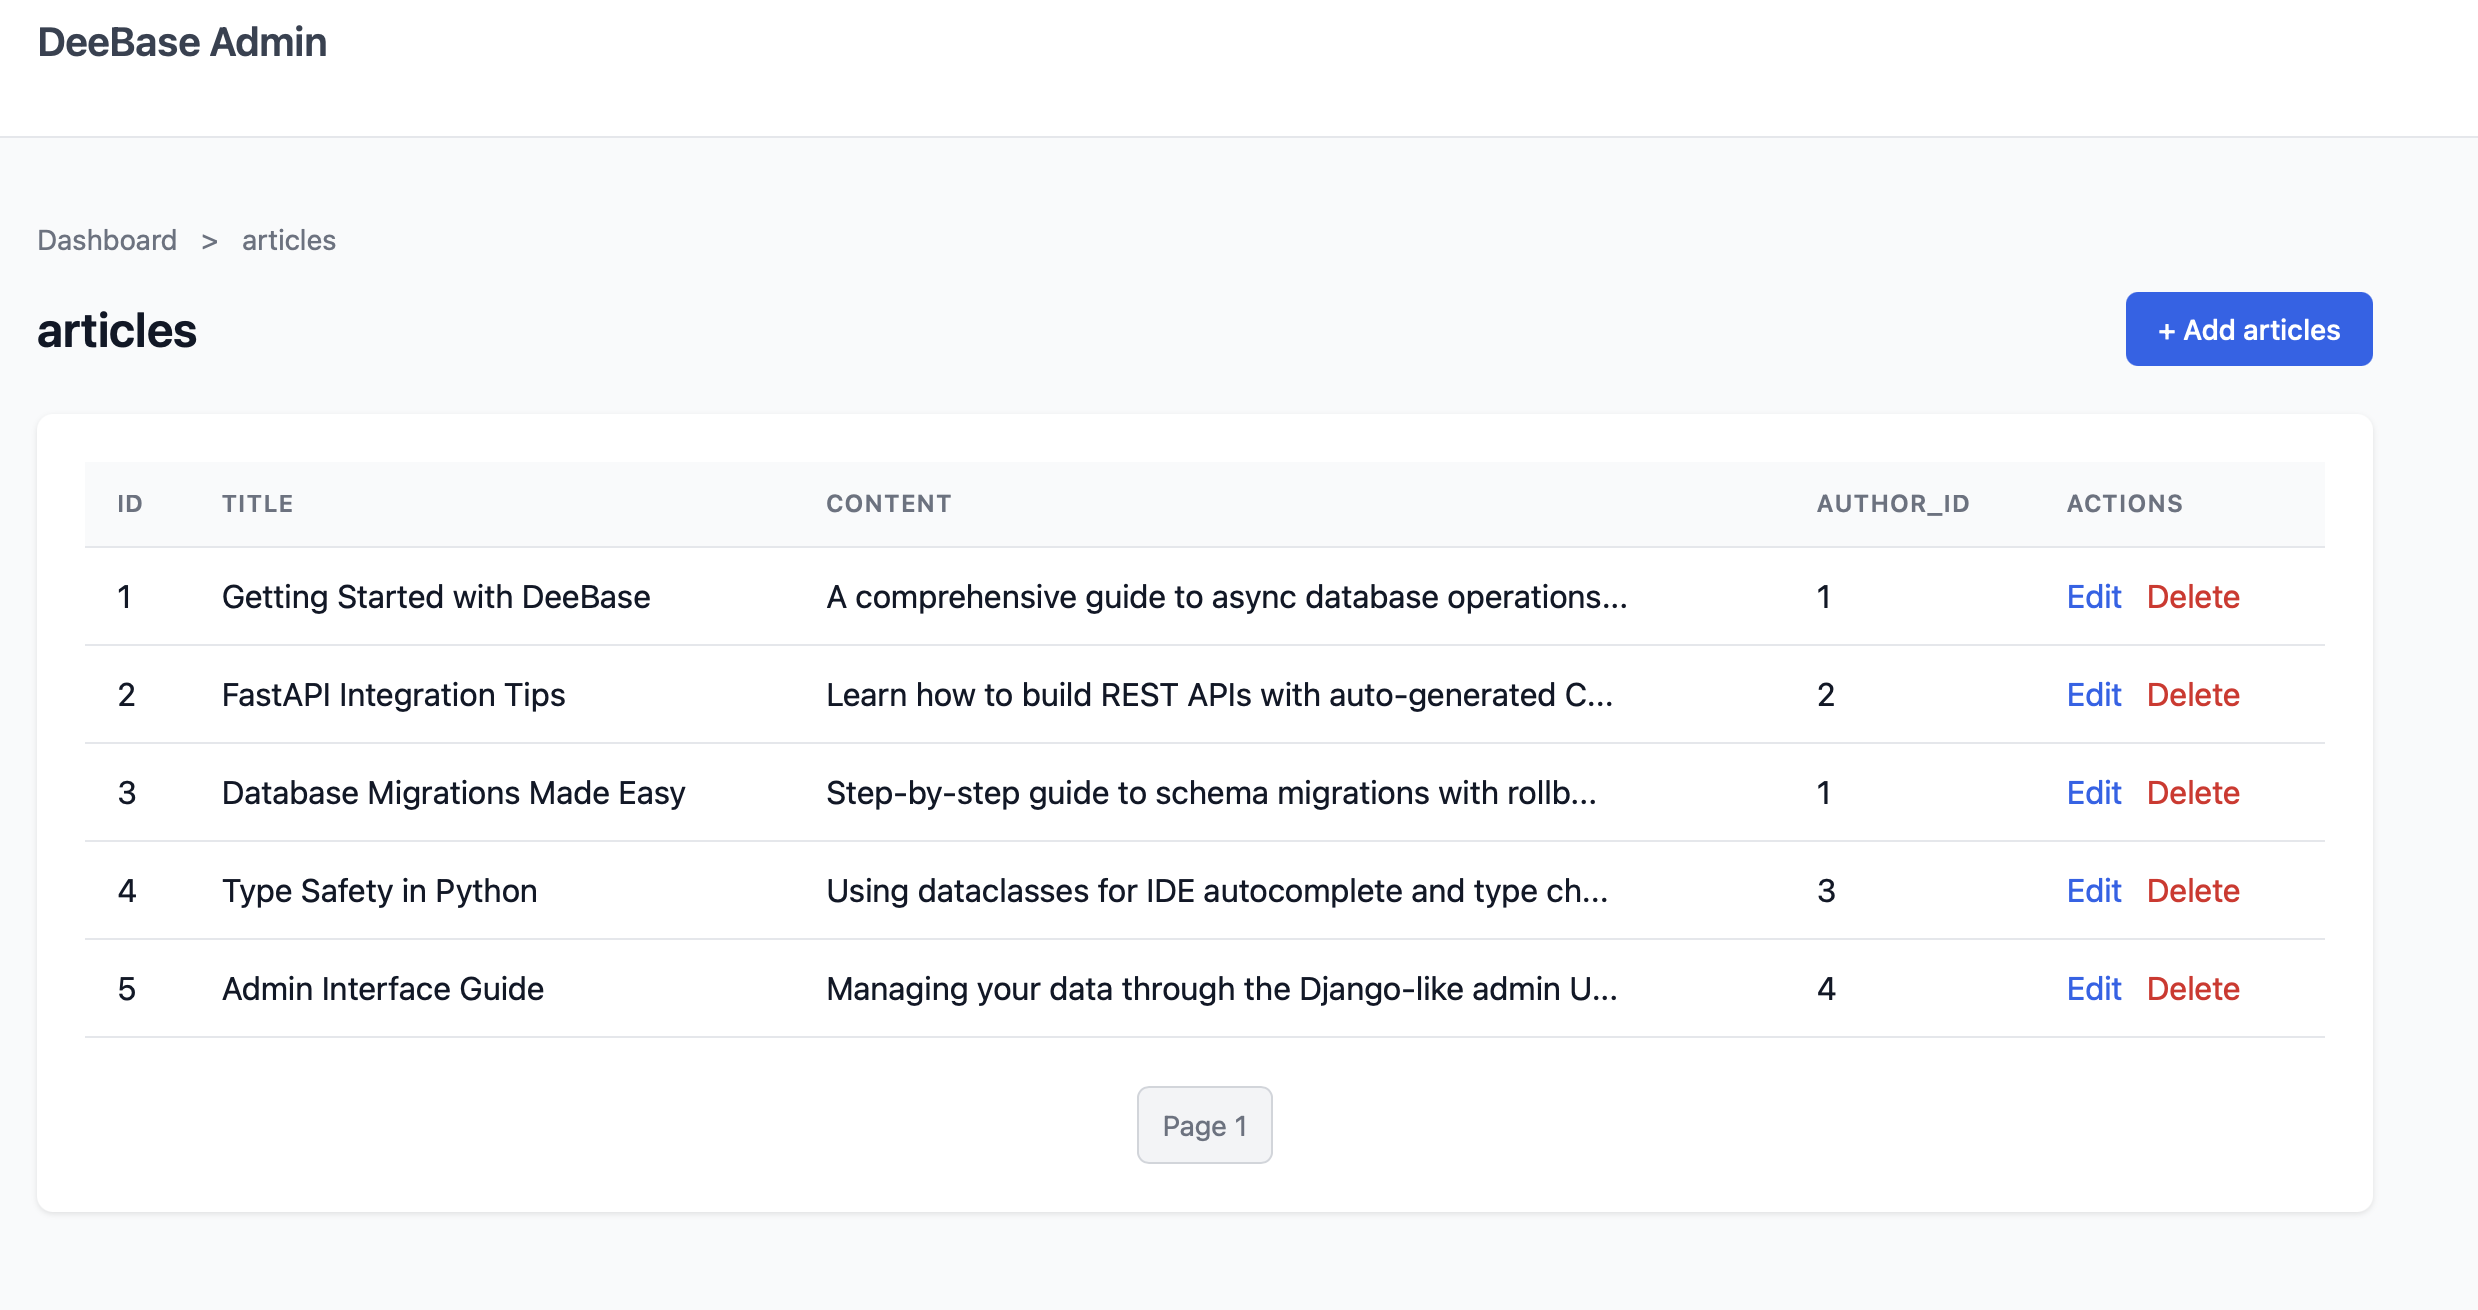
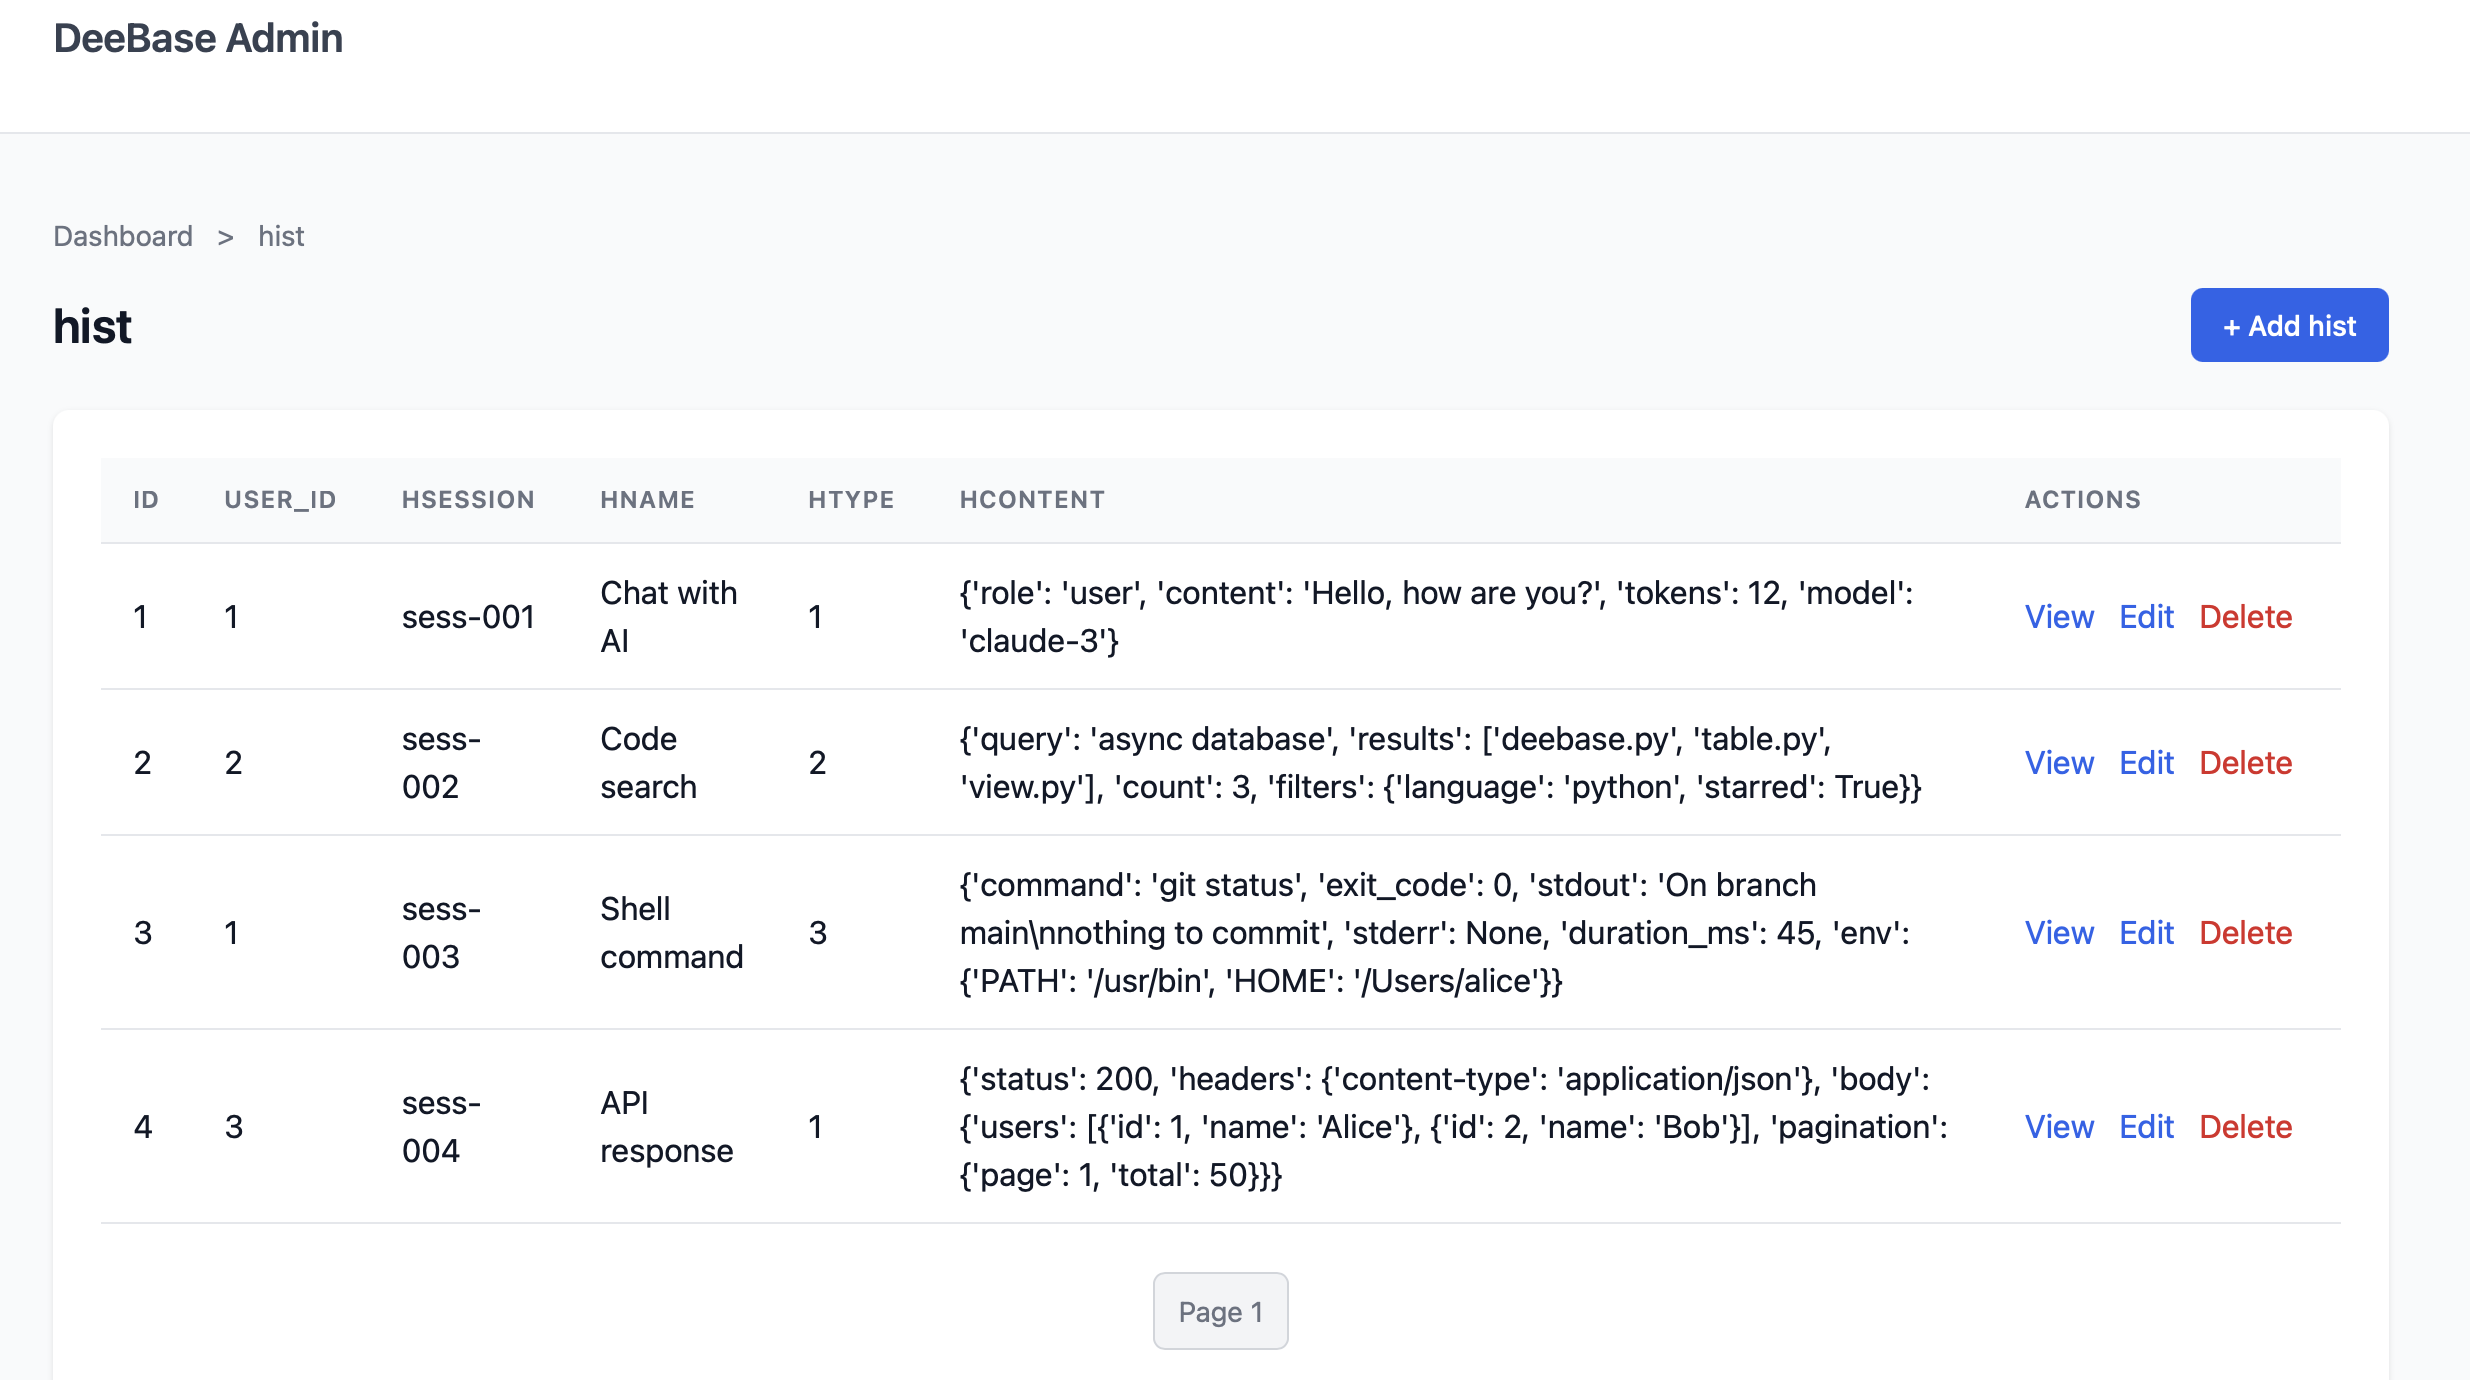
Phase 17: Add screenshots and documentation updates
- Add 4 new screenshots: detail view, custom display, JSON rendering, updated list view
- Update fastapi_guide.md with Phase 17 screenshots
- Update cli_reference.md with admin features and screenshot
- Update implemented.md with full Phase 17 section
- Update README.md with dashboard + list view screenshots, test count to 539
- Fix Jekyll raw tags in implementation_plan.md for view.html template
- Mark Phase 17 as ongoing (core features complete, open for future enhancements)

diff --git a/docs/implemented.md b/docs/implemented.md
@@ -4029,9 +4029,12 @@ deebase api serve --admin
 #   Dashboard:     http://127.0.0.1:8000/admin/
 #   Table list:    http://127.0.0.1:8000/admin/users/
 #   Create form:   http://127.0.0.1:8000/admin/users/new
-#   Edit form:     http://127.0.0.1:8000/admin/users/1
+#   Detail view:   http://127.0.0.1:8000/admin/users/1
+#   Edit form:     http://127.0.0.1:8000/admin/users/1/edit
 #   Delete:        http://127.0.0.1:8000/admin/users/1/delete
 ```
+
+![Admin List View](admin-list-view.png)
 
 **Admin Features:**
 - Dashboard listing all tables
@@ -4095,6 +4098,70 @@ app.include_router(create_admin_router(db))
 
 ---
 
+## Phase 17: Admin UI Enhancements 🔄 ONGOING
+
+Phase 17 enhances the admin interface with read-only detail views, type-based field rendering, and custom display functions.
+
+### Read-Only Detail View
+
+The admin now has a dedicated read-only detail view at `/{table}/{pk}`:
+
+```bash
+# URL structure
+/admin/users/1        # Read-only detail view
+/admin/users/1/edit   # Edit form (moved from /admin/users/1)
+/admin/users/1/delete # Delete confirmation
+```
+
+![Admin Detail View](admin-detail-view.png)
+
+### Type-Based Field Renderers
+
+Fields are automatically rendered based on their database type:
+
+| Column Type | Rendering |
+|-------------|-----------|
+| JSON | Formatted `<pre>` block |
+| TEXT | Preserves newlines with `<br>` |
+| BOOLEAN | Styled "Yes" / "No" |
+| INTEGER | Monospace font |
+| DATETIME | Formatted timestamp |
+| NULL | Em dash (—) marker |
+
+![Admin JSON Rendering](admin-json-rendering.png)
+
+### Custom Display Functions
+
+Create custom renderers in `displays/{table_name}.py`:
+
+```python
+# displays/users.py
+import html
+
+def render_username(value, record):
+    """Render username in red."""
+    if value is None:
+        return '<span class="null">—</span>'
+    escaped = html.escape(str(value))
+    return f'<span style="color: #dc2626; font-weight: 600;">{escaped}</span>'
+
+DISPLAYS = {"username": render_username}
+```
+
+![Admin Custom Display](admin-custom-display.png)
+
+**Phase 17 Deliverables:**
+- ✅ Read-only detail view at `/{table}/{pk}`
+- ✅ Edit form moved to `/{table}/{pk}/edit`
+- ✅ Clickable rows in list view
+- ✅ Type-based field renderers (`deebase.admin.renderers`)
+- ✅ Custom display functions via `displays/` directory
+- ✅ `deebase init` creates `displays/` scaffold
+- ✅ 31 new admin tests (539 total passing)
+- ✅ Documentation with screenshots
+
+---
+
 ## Dependencies
 
 - Python 3.14+
@@ -4117,9 +4184,9 @@ The codebase is designed to be database-agnostic through SQLAlchemy's dialect sy
 
 ## Summary
 
-**All 16 Phases Complete! 🎉**
+**All 16 Phases Complete + Phase 17 Ongoing! 🎉**
 
-DeeBase is now feature-complete with:
+DeeBase is production-ready with:
 - ✅ **Async/await support** - Modern Python async for FastAPI and other frameworks
 - ✅ **Ergonomic API** - Simple, intuitive operations inspired by fastlite
 - ✅ **Type safety** - Optional dataclass support for IDE autocomplete
@@ -4139,9 +4206,10 @@ DeeBase is now feature-complete with:
 - ✅ **Validation layer** - Shared validators used by CLI, admin, and API
 - ✅ **Admin interface** - Django-like admin UI at `/admin/`
 - ✅ **CLI data commands** - CRUD from the terminal with `deebase data`
+- ✅ **Admin enhancements** - Read-only detail views, type-based renderers, custom displays (Phase 17)
 - ✅ **Comprehensive error handling** - 6 specific exception types with rich context
 - ✅ **Code generation** - Export database schemas as Python dataclasses
 - ✅ **Complete documentation** - API reference, migration guide, CLI reference, examples
-- ✅ **494 passing tests** - Comprehensive test coverage
+- ✅ **539 passing tests** - Comprehensive test coverage
 
 **Ready for production use!**

diff --git a/CLAUDE.md b/CLAUDE.md
@@ -28,7 +28,7 @@ DeeBase follows fastlite's philosophy of providing a simple, interactive databas
 ## Project Status
 
 ✅ **All 16 Phases Complete** - Production-ready with full Data Management & Admin Interface
-🔄 **Phase 17 In Progress** - Admin UI Enhancements (core features done, screenshots pending)
+🔄 **Phase 17 Ongoing** - Admin UI Enhancements (core features and docs complete, open for future enhancements)
 
 ✅ **Phase 1 Complete** - Core Infrastructure with enhancements
 ✅ **Phase 2 Complete** - Table Creation & Schema
@@ -46,7 +46,7 @@ DeeBase follows fastlite's philosophy of providing a simple, interactive databas
 ✅ **Phase 14 Complete** - Migrations (simple runner, fastmigrate-style API)
 ✅ **Phase 15 Complete** - FastAPI Integration (CRUD routers, Pydantic models, FK validation)
 ✅ **Phase 16 Complete** - Data Management & Admin Interface (CLI data commands, Django-like admin UI)
-🔄 **Phase 17 In Progress** - Admin UI Enhancements (read-only detail view, clickable rows, custom field renderers)
+🔄 **Phase 17 Ongoing** - Admin UI Enhancements (read-only detail view, clickable rows, custom field renderers)
 
 **Completed Features:**
 - ✅ Database class with async engine and `q()` method
@@ -195,10 +195,12 @@ DeeBase follows fastlite's philosophy of providing a simple, interactive databas
 - ✅ Updated documentation (fastapi_guide.md, cli_reference.md, CLAUDE.md)
 - ✅ **539 total passing tests**
 
-**Remaining Phase 17 Tasks:**
-- 🔲 Add screenshots of new admin UI (detail view, clickable rows, field renderers)
-- 🔲 Test Phase 17 features in memento app to validate real-world usage
-- 🔲 Capture screenshots from memento app for documentation
+**Completed Phase 17 Tasks:**
+- ✅ Screenshots added (detail view, list view, JSON rendering, custom displays)
+- ✅ Tested in memento app with custom red username renderer
+- ✅ Documentation updated with screenshots
+
+**Phase 17 Status:** Open, no new tasks planned. Core features complete.
 
 See [docs/implementation_plan.md](docs/implementation_plan.md) for detailed implementation roadmap.
 See [docs/implemented.md](docs/implemented.md) for comprehensive usage examples of implemented features.

diff --git a/README.md b/README.md
@@ -4,7 +4,7 @@
 
 [![Python 3.14+](https://img.shields.io/badge/python-3.14+-blue.svg)](https://www.python.org/downloads/)
 [![SQLAlchemy 2.0+](https://img.shields.io/badge/sqlalchemy-2.0+-green.svg)](https://www.sqlalchemy.org/)
-[![Tests](https://img.shields.io/badge/tests-508%20passing-brightgreen.svg)](#)
+[![Tests](https://img.shields.io/badge/tests-539%20passing-brightgreen.svg)](#)
 [![License](https://img.shields.io/badge/license-TBD-lightgrey.svg)](#)
 
 DeeBase provides a simple, intuitive interface for async database operations in Python. Built on SQLAlchemy, it combines the ergonomics of [fastlite](https://fastlite.answer.ai/) with full async/await support and multi-database compatibility.
@@ -42,6 +42,8 @@ Define your models, get a full CRUD API with Swagger documentation:
 Manage your data through a built-in admin UI at `/admin/`:
 
 ![Admin Dashboard](docs/admin-dashboard.png)
+
+![Admin List View](docs/admin-list-view.png)
 
 ## Quick Start
 
@@ -746,7 +748,7 @@ uv run pytest --cov=src/deebase --cov-report=html
 uv run pytest tests/test_crud.py -v
 ```
 
-All 508 tests passing ✅
+All 539 tests passing ✅
 
 ### Project Structure
 

diff --git a/docs/cli_reference.md b/docs/cli_reference.md
@@ -1097,10 +1097,14 @@ INFO:     Uvicorn running on http://127.0.0.1:8000 (Press CTRL+C to quit)
 **Admin Interface Features:**
 - Dashboard listing all tables
 - List view with pagination for each table
+- Detail view with type-based rendering (Phase 17)
 - Create form with FK dropdowns populated from parent tables
 - Edit form for updating records
 - Delete confirmation page
 - Automatic validation using project validators
+- Custom display functions via `displays/` directory (Phase 17)
+
+![Admin List View](admin-list-view.png)
 
 > **Note:** The admin interface uses database reflection to discover tables. You do NOT need to run `api generate` for the admin - just `api init` then `api serve --admin`.
 

diff --git a/docs/implementation_plan.md b/docs/implementation_plan.md
@@ -3444,7 +3444,7 @@ No new dependencies required - Jinja2 is already in the `[api]` extra.
 
 ### Phase 17: Admin UI Enhancements
 
-**Status:** Planned
+**Status:** Ongoing
 
 **Goal:** Improve admin interface with read-only detail views, clickable rows, and customizable field rendering.
 
@@ -3598,6 +3598,7 @@ def _load_custom_display(table_name: str, field_name: str):
 #### Part 4: Template Updates
 
 **view.html (new):**
+{% raw %}
 ```html
 {% extends "base.html" %}
 
@@ -3630,6 +3631,7 @@ def _load_custom_display(table_name: str, field_name: str):
 </div>
 {% endblock %}
 ```
+{% endraw %}
 
 #### Documentation Updates
 

diff --git a/docs/fastapi_guide.md b/docs/fastapi_guide.md
@@ -455,10 +455,20 @@ Browse records with clickable rows that navigate to detail view:
 
 Read-only view of a record with Edit/Delete buttons:
 
+![Admin Detail View](admin-detail-view.png)
+
 - JSON fields rendered as formatted `<pre>` blocks
 - TEXT fields preserve line breaks
 - Boolean fields shown as styled "Yes" / "No"
 - NULL values shown with "—" marker
+
+**JSON Rendering Close-up:**
+
+![Admin JSON Rendering](admin-json-rendering.png)
+
+**Custom Display Example (red username):**
+
+![Admin Custom Display](admin-custom-display.png)
 
 #### Edit Form with FK Dropdown
 
